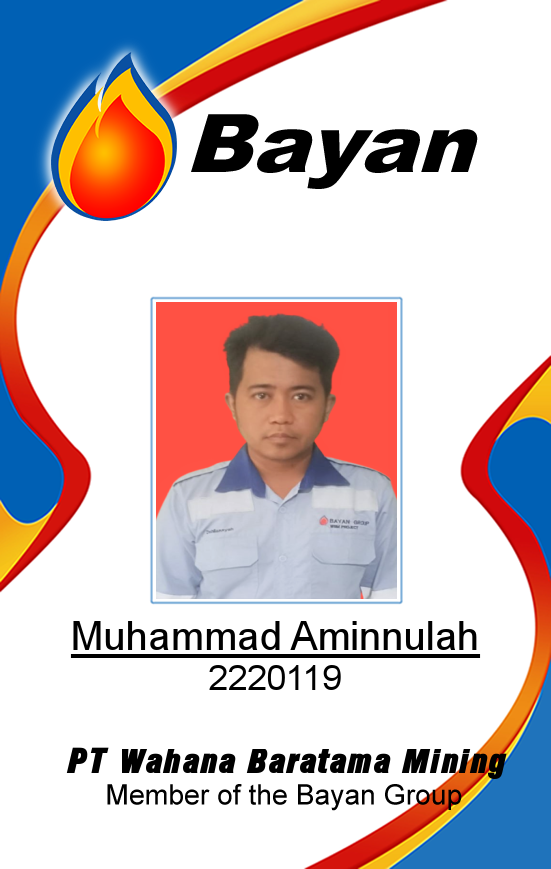
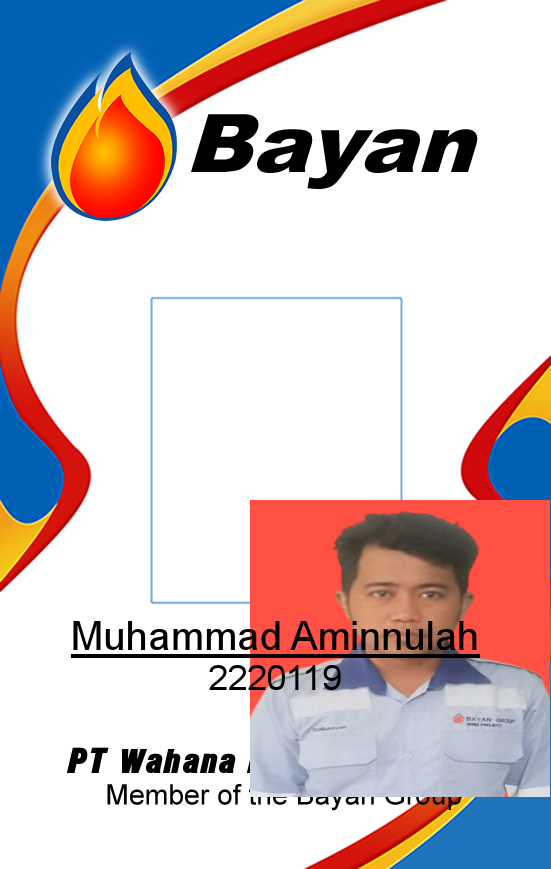
update posisi

Changed region(s): [[0.2777, 0.3418, 1.0, 0.9321]]

diff --git a/badge.js b/badge.js
@@ -21,8 +21,8 @@ async function buatKartuKaryawan(data) {
   const photo = await loadImage(photoPath);
   const photoWidth = 241;
   const photoHeight = 297;
-  const photoX = 156; // Posisi horizontal
-  const photoY = 302; // Posisi vertikal
+  const photoX = 250; // Posisi horizontal
+  const photoY = 500; // Posisi vertikal
   ctx.drawImage(photo, photoX, photoY, photoWidth, photoHeight);
 
   // Nama karyawan
